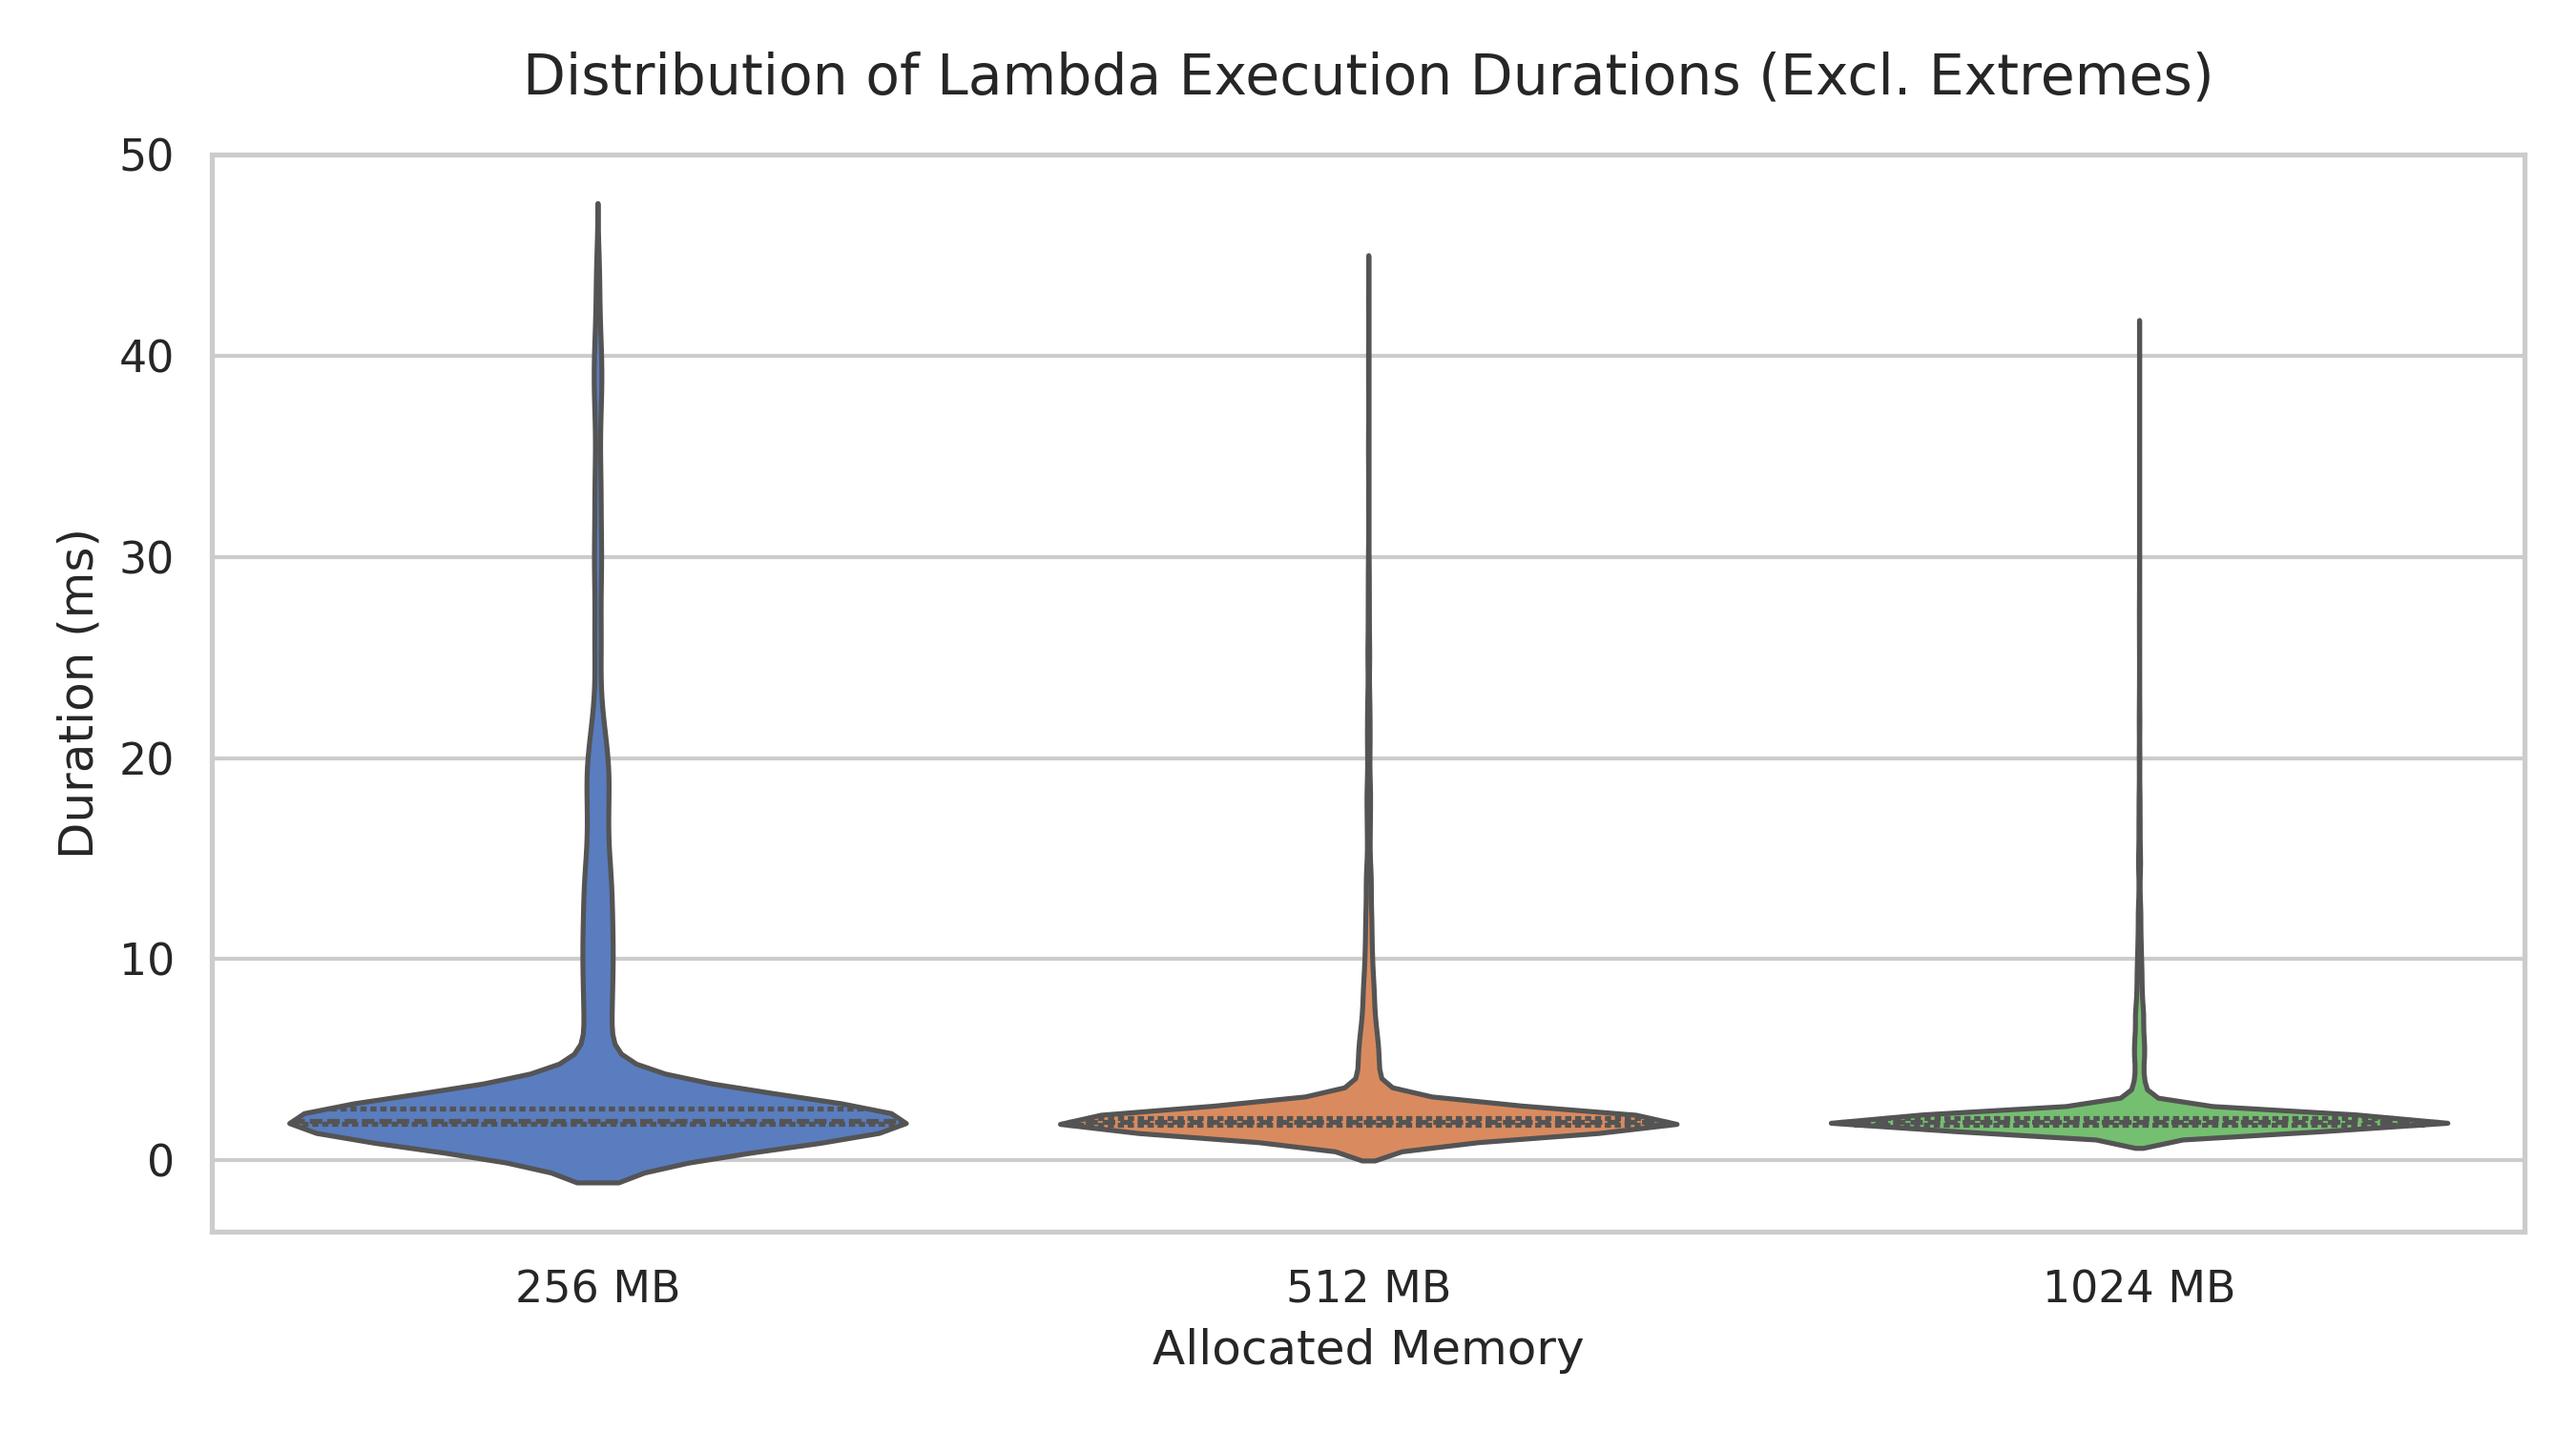
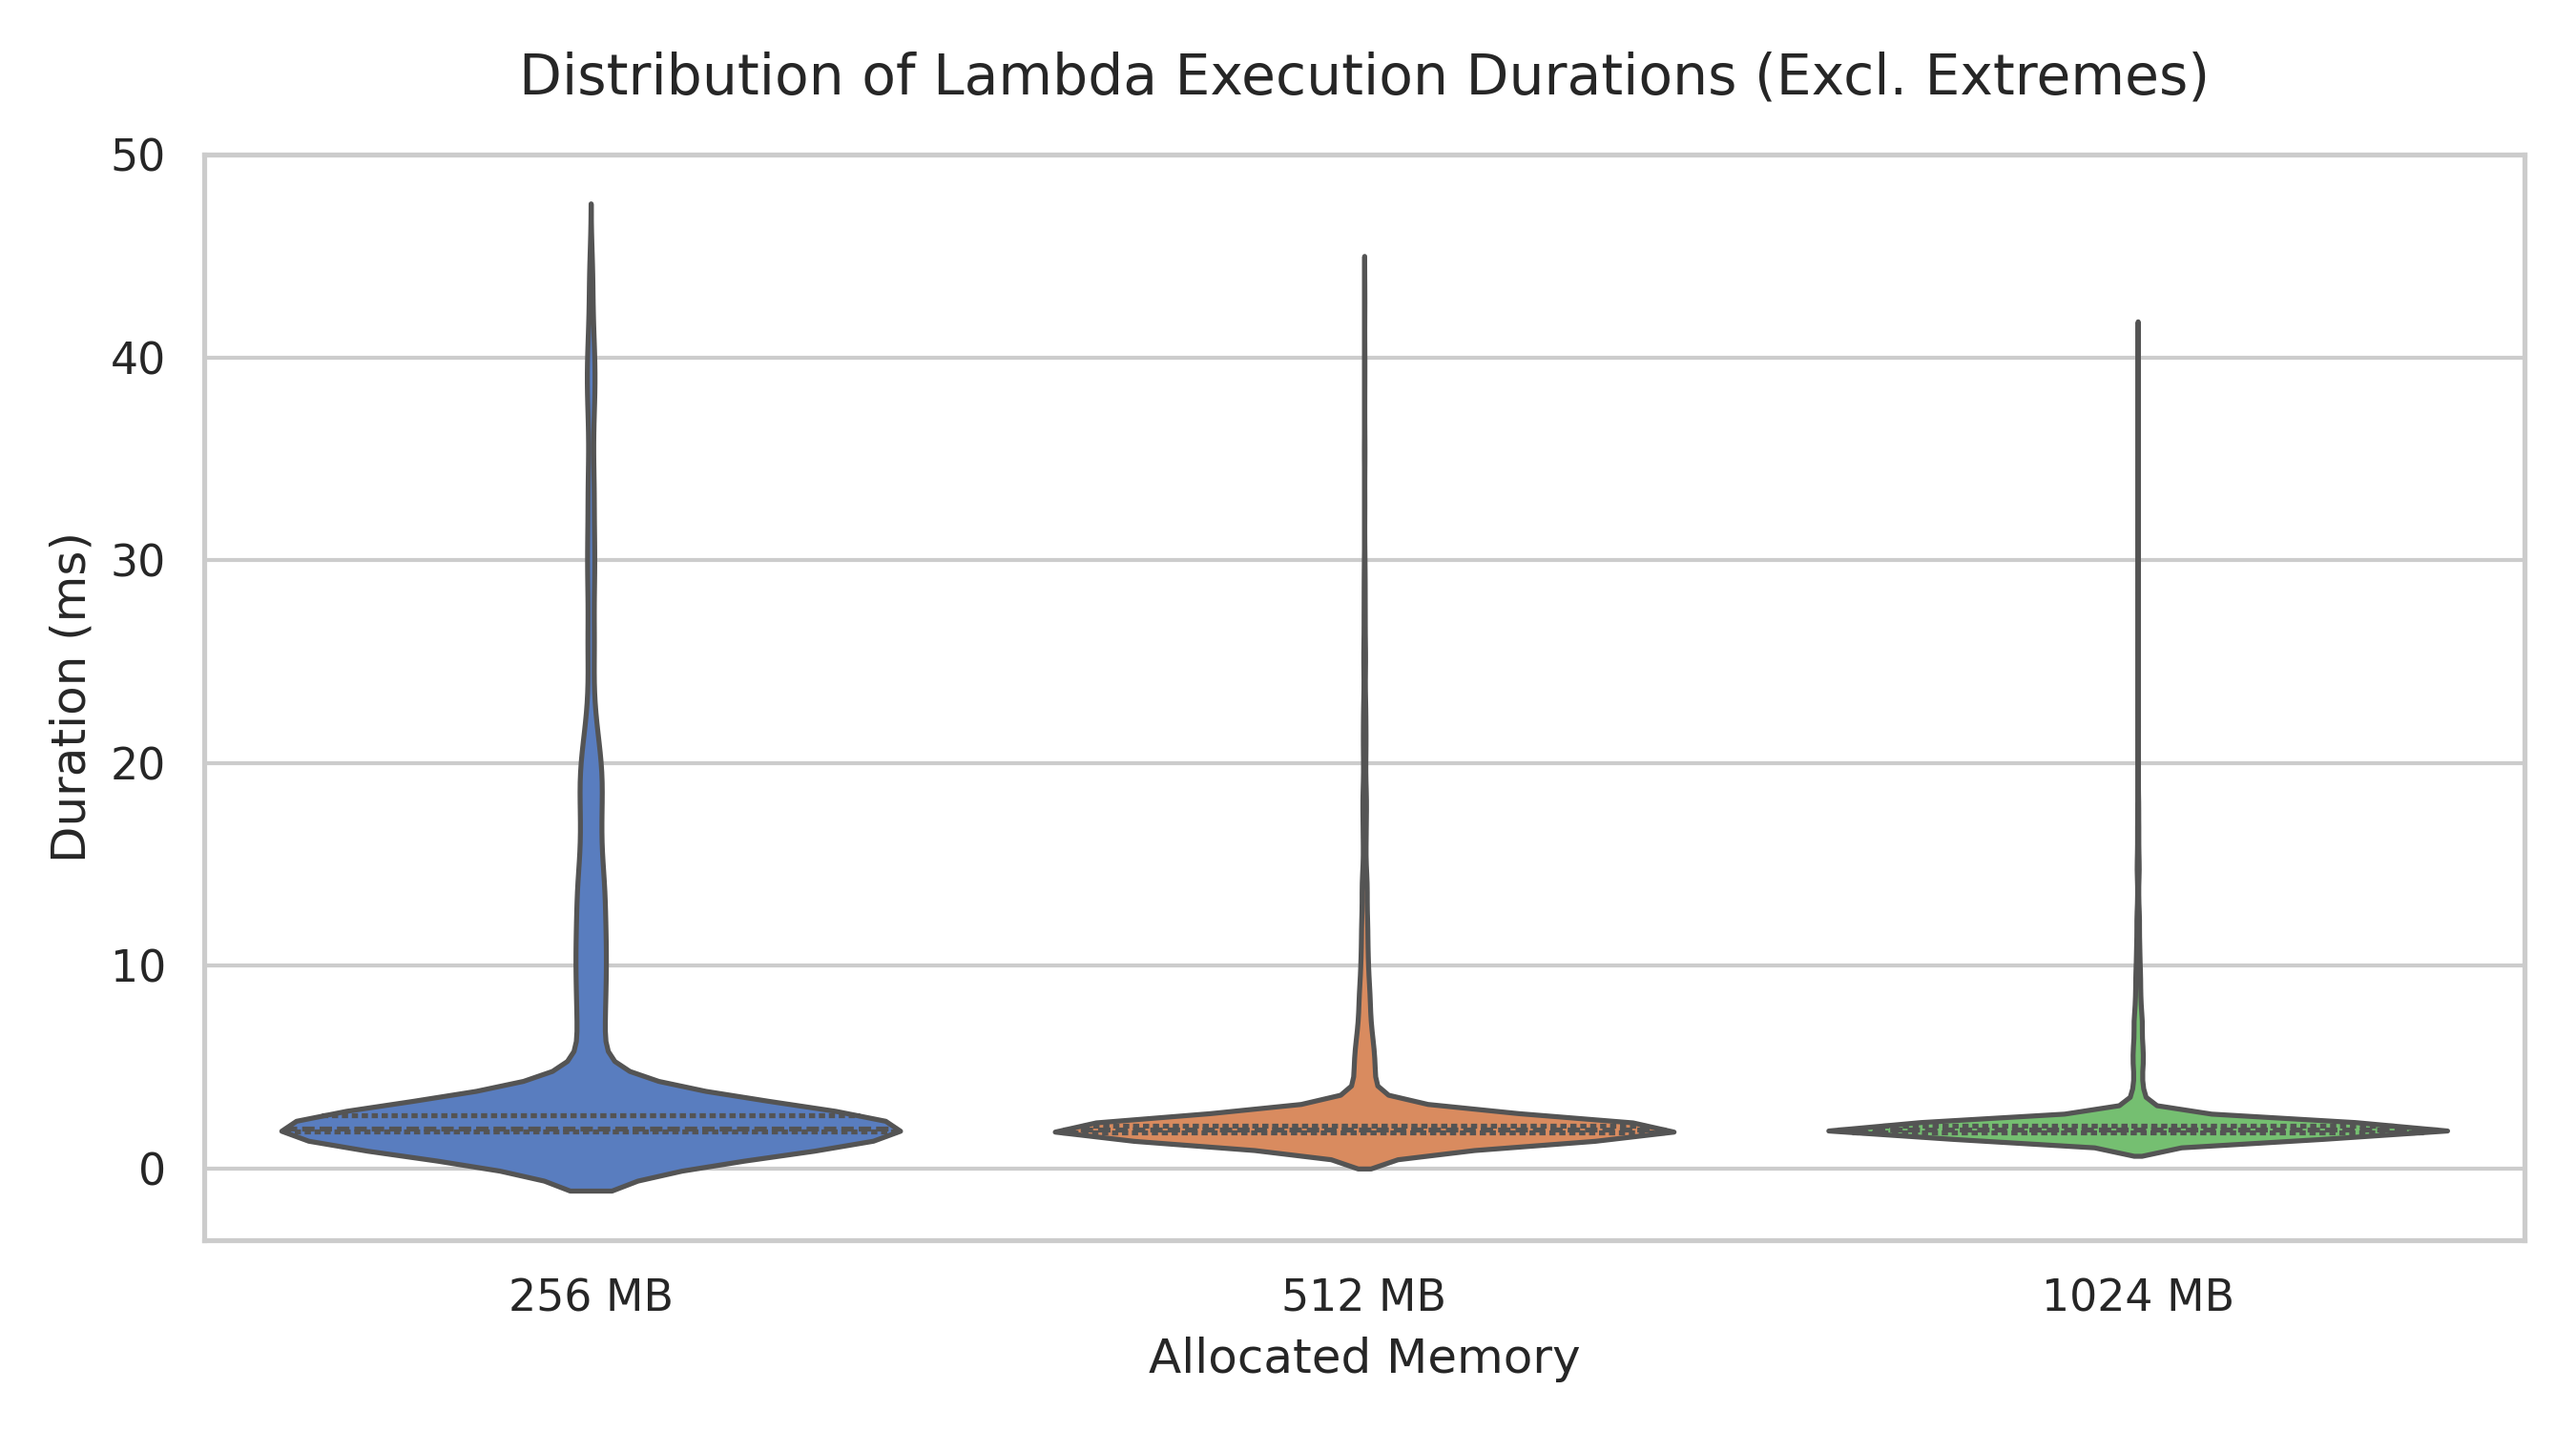
other plots

Changed region(s): [[0.0, 0.092, 0.9956, 0.9813], [0.1867, 0.0307, 0.8711, 0.0613], [0.8089, 0.2453, 0.84, 0.276]]

diff --git a/src/generate_adv_plots.py b/src/generate_adv_plots.py
@@ -14,7 +14,7 @@ os.makedirs('../plots', exist_ok=True)
 def plot_tail_latency():
     """Plot 5: Tail Latency Percentile Curve"""
     # Load 512MB Locust data
-    csv_path = "../results/results_vs_512mb/Locust_2026-05-30-18h33_locustfile.py_https___3fxen53kw4.execute-api.us-east-1.amazonaws.com_Prod_requests-512mb4.csv"
+    csv_path = "../results/results_coldstart_80/Locust_2026-05-31-10h24_locustfile.py_https___fqci4p18k0.execute-api.us-east-1.amazonaws.com_Prod_requests-80-4.csv"
     df = pd.read_csv(csv_path)
 
     # Filter out the 'Aggregated' row
